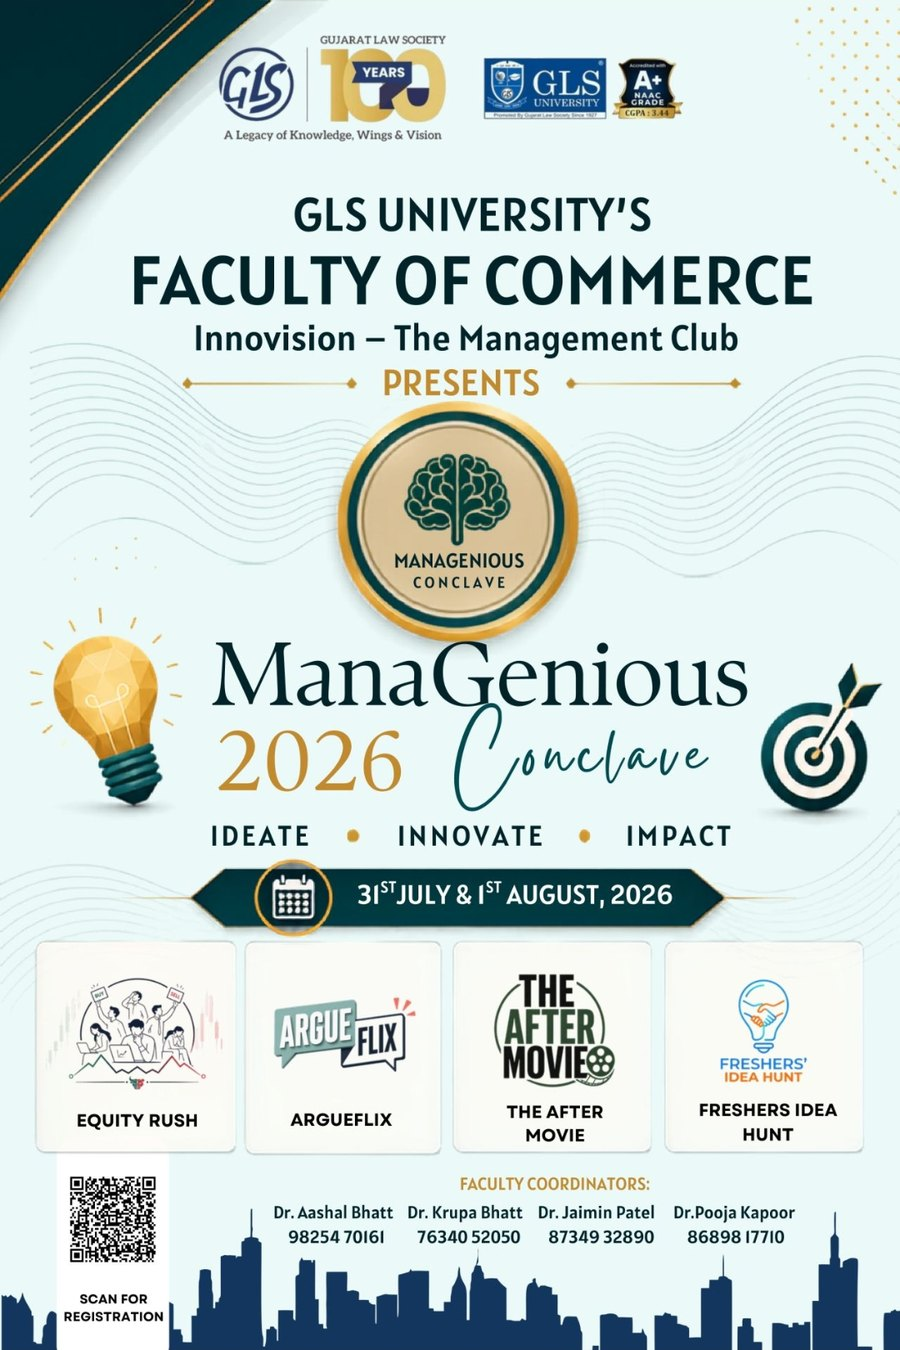
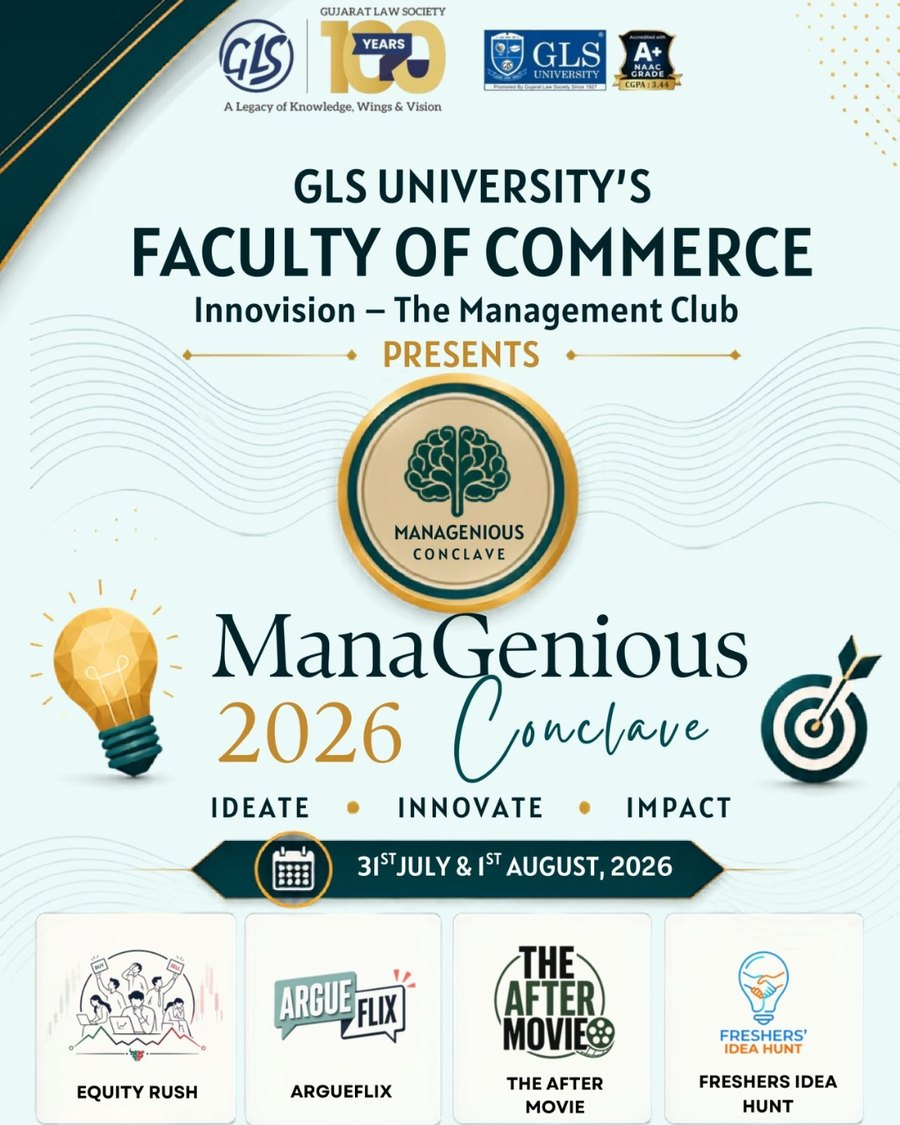
Speaking: ManaGenious poster shows down to event tiles, coordinator/QR text removed
Claude-Session: https://claude.ai/code/session_01YTEjcWTWQFTrQ1JggdAfgS

diff --git a/assets/js/speaking.js b/assets/js/speaking.js
@@ -16,7 +16,7 @@ const SPEAKING_EVENTS = [
     host: "Faculty of Commerce, GLS University \u00b7 Innovision \u2013 The Management Club",
     posts: [
       {
-        image: { src: "../assets/images/speaking/managenious-2026.jpg", pos: "50% 0%" },
+        image: { src: "../assets/images/speaking/managenious-2026.jpg", pos: "50% 50%" },
         excerpt: "Excited and grateful to be invited as a Judge for the Freshers\u2019 Idea Hunt at ManaGenious Conclave 2026\u2026",
         link: "https://www.linkedin.com/posts/ca-bhavya-kamdar-%F0%9F%8E%B2-687723194_managenious2026-glsuniversity-facultyofcommerce-share-7487752434484936705-obWu/",
       },
